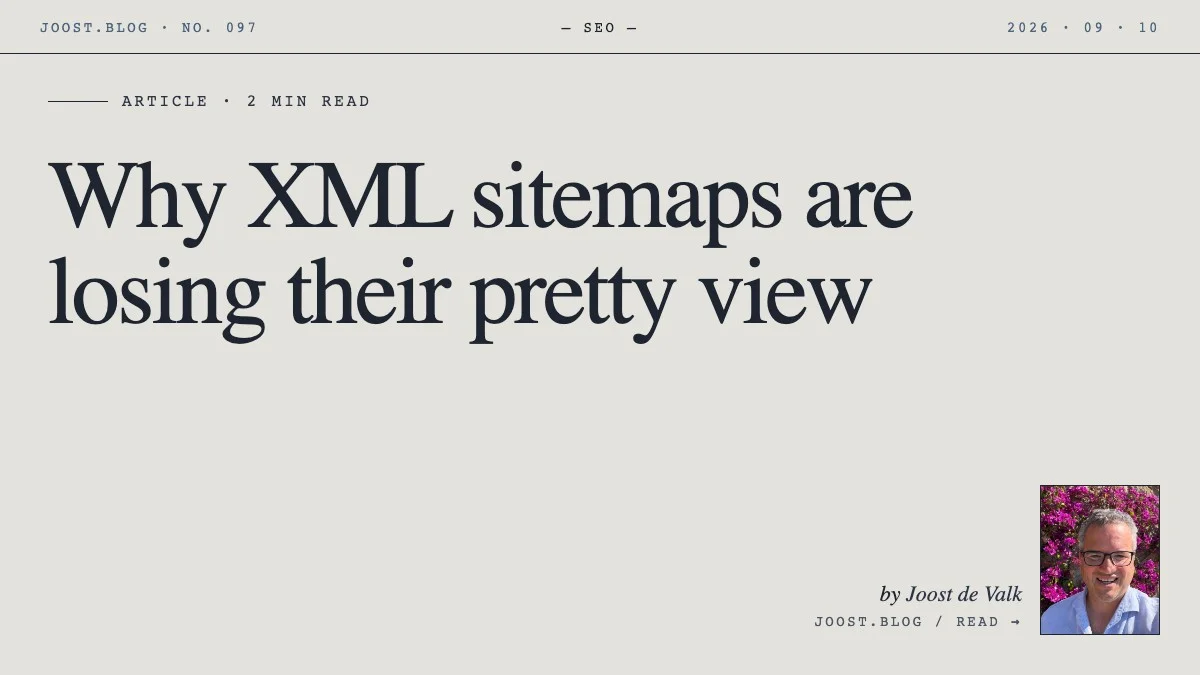
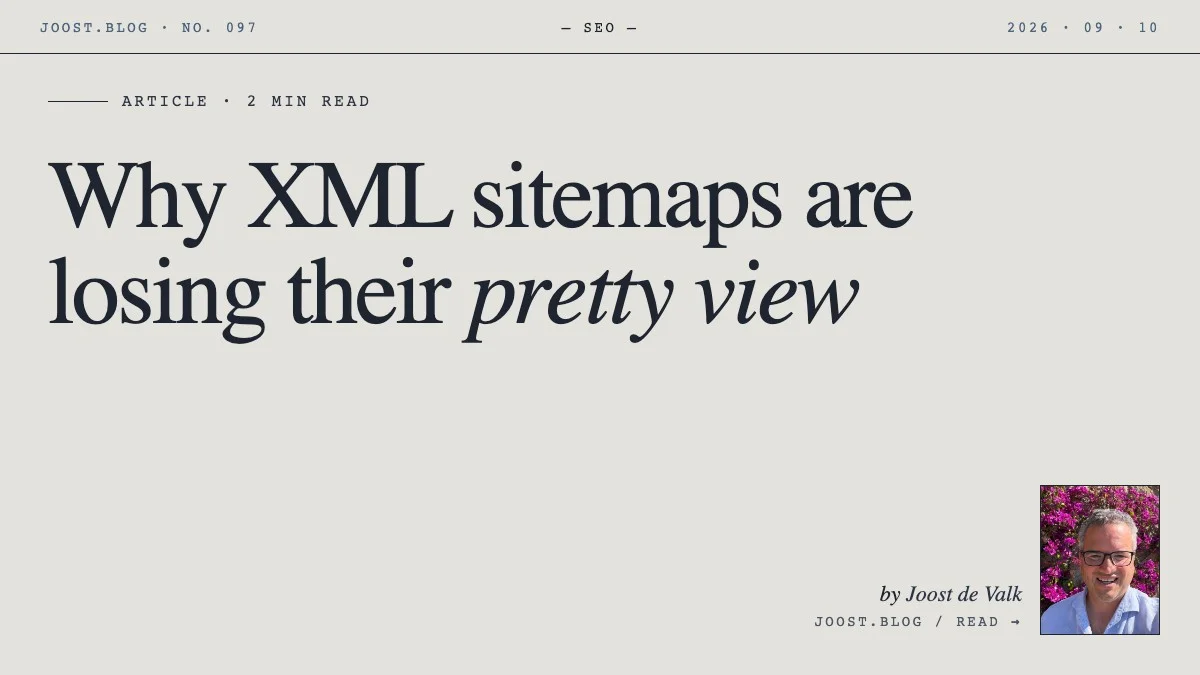
Emphasize sitemap titles and add extension social image

Changed region(s): [[0.37, 0.3733, 0.74, 0.5289]]

diff --git a/src/content/blog/xml-sitemaps-without-xslt/index.md b/src/content/blog/xml-sitemaps-without-xslt/index.md
@@ -1,5 +1,5 @@
 ---
-title: Why XML sitemaps are losing their pretty view
+title: Why XML sitemaps are losing their <em>pretty view</em>
 seo:
   title: Why XML sitemaps are losing their pretty view
   description: XML sitemaps still help search engines find your pages. Browsers are removing XSLT, the feature that makes some sitemaps look pretty. Here is what to do.

diff --git a/src/content/pages/pretty-xml-sitemaps.md b/src/content/pages/pretty-xml-sitemaps.md
@@ -1,5 +1,5 @@
 ---
-title: Pretty XML Sitemaps
+title: <em>Pretty</em> XML Sitemaps
 section: code
 toc: true
 seo:
